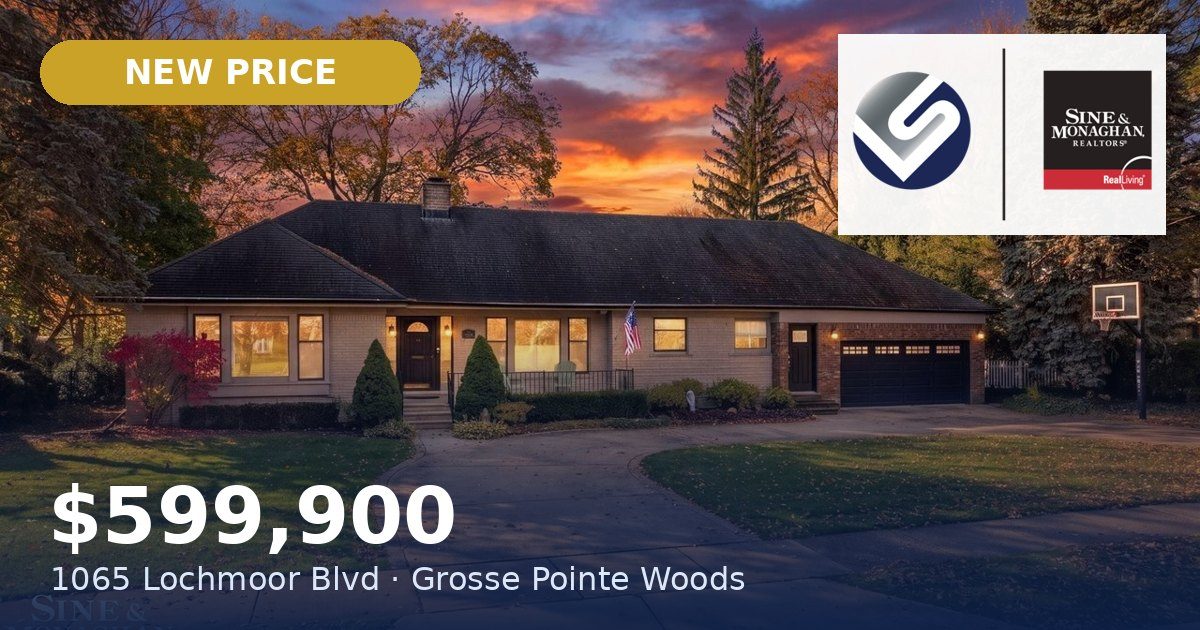
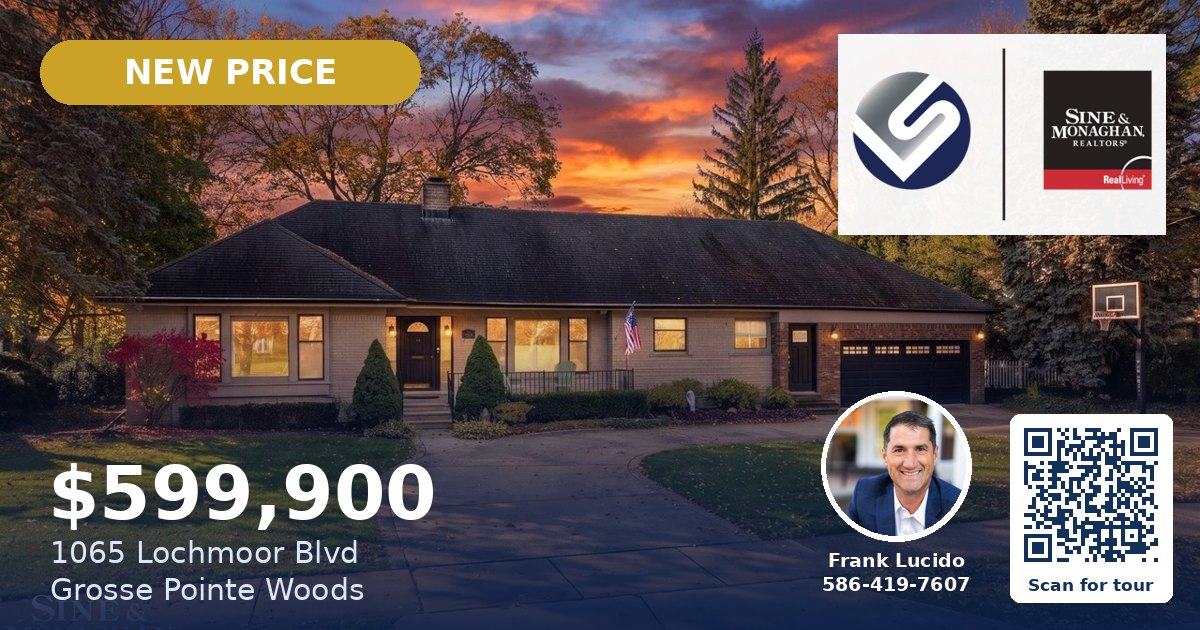
1065 Lochmoor: headshot + QR on post image, easy contact form to Follow Up Boss
Claude-Session: https://claude.ai/code/session_01MGWtxCkF52fLRkVzdnzZ1h

Changed region(s): [[0.6783, 0.6032, 0.9867, 0.9651], [0.0308, 0.7238, 0.6167, 0.9651]]

diff --git a/1065-lochmoor/index.html b/1065-lochmoor/index.html
@@ -64,13 +64,27 @@ ul.hl li:before{content:"";position:absolute;left:4px;top:15px;width:10px;height
 .agent a.tel{display:block;color:#fff;font-size:28px;font-weight:800;text-decoration:none;margin-top:4px}
 .legal{font-size:12px;color:#5b6b80;text-align:center;padding:4px 18px}
 .dock{position:fixed;left:0;right:0;bottom:0;background:#fff;box-shadow:0 -4px 16px rgba(0,0,0,.14);padding:10px 12px calc(10px + env(safe-area-inset-bottom));display:flex;gap:8px;z-index:9}
-.dock a,.dock button{flex:1;border:0;border-radius:999px;padding:13px 6px;font:700 16px/1 inherit;font-family:inherit;text-decoration:none;text-align:center;cursor:pointer}
+.dock a,.dock button{flex:1;border:0;border-radius:999px;padding:13px 6px;font:700 15px/1 inherit;font-family:inherit;text-decoration:none;text-align:center;cursor:pointer}
 .dock .c{background:#12305a;color:#fff}.dock .s{background:#1f6fd0;color:#fff}.dock .sh{background:#eef3fa;color:#12305a}
+
+.ask .f{margin-bottom:10px}.ask label,.ask .lab{display:block;font-weight:700;color:#12305a;margin-bottom:4px;font-size:15px}
+.ask input,.ask textarea{width:100%;font:inherit;font-size:17px;padding:12px;border:2px solid #c9d5e6;border-radius:10px}
+.ask textarea{min-height:80px}
+.ch{display:flex;flex-wrap:wrap;gap:8px}.ch button{font:inherit;font-size:15px;font-weight:600;border:2px solid #12305a;background:#fff;color:#12305a;border-radius:999px;padding:9px 14px;cursor:pointer}
+.ch button.on{background:#12305a;color:#fff}
+.ok{display:flex;gap:8px;align-items:flex-start;font-size:13px;color:#3b4d64;margin:6px 0 10px}.ok input{width:auto;margin-top:3px}
+.hp{position:absolute;left:-9999px;height:1px;width:1px}
+.err{color:#b3261e;font-weight:700;min-height:1px;margin-bottom:6px}
+.big{display:block;width:100%;border:0;border-radius:999px;padding:15px;font:800 18px/1 inherit;font-family:inherit;background:#1f6fd0;color:#fff;cursor:pointer;text-align:center;text-decoration:none;margin-top:8px}
+.big.line{background:#fff;color:#12305a;border:2px solid #12305a}
+.quick{display:grid;grid-template-columns:1fr 1fr 1fr;gap:8px;margin-bottom:12px}
+.quick a{text-align:center;text-decoration:none;font-weight:800;font-size:16px;border-radius:12px;padding:14px 4px;background:#12305a;color:#fff}
+.quick a small{display:block;font-weight:500;font-size:12px;color:#c8d6ee;margin-top:3px}
 #lb{position:fixed;inset:0;background:rgba(0,0,0,.9);display:none;align-items:center;justify-content:center;z-index:20}
 #lb img{max-width:96vw;max-height:92vh}
 @media (max-width:420px){.facts b{font-size:19px}.pricebox .p{font-size:34px}.agent img.ph{width:105px}}
 </style></head>
-<body>
+<body data-form="buyer-search">
 <div class="wrap">
 <header><img src="img/lucido-logo.png" alt="Lucido Homes"><b>Frank Lucido, REALTOR®<small>Sine &amp; Monaghan · Top 5% in Metro Detroit</small></b><img src="img/logo_c.png" alt="Lucido Homes · Sine &amp; Monaghan Realtors" style="height:44px;background:#fff;border-radius:6px;padding:3px"></header>
 
@@ -85,6 +99,39 @@ ul.hl li:before{content:"";position:absolute;left:4px;top:15px;width:10px;height
   <div><b>3.5</b><span>Baths</span></div>
   <div><b>2,400</b><span>Sq ft (approx.)</span></div>
   <div><b>2-car</b><span>Attached garage</span></div>
+</div>
+
+
+<div class="card ask" id="ask">
+  <h2>Questions? Reach me any way you like</h2>
+  <div class="quick">
+    <a href="tel:+15864197607">Call<small>586-419-7607</small></a>
+    <a href="sms:+15864197607?&body=Hi%20Frank%2C%20I%20have%20a%20question%20about%201065%20Lochmoor.">Text<small>Quick reply</small></a>
+    <a href="mailto:frankjr@fjlucido.com?subject=1065%20Lochmoor%20Blvd">Email<small>Send a note</small></a>
+  </div>
+  <div id="form">
+    <p style="margin:0 0 10px">Or send it here and I'll get right back to you.</p>
+    <div class="f" data-q="Home"><input type="hidden" value="1065 Lochmoor Blvd, Grosse Pointe Woods ($599,900)"></div>
+    <div class="f" data-q="I'd like to"><span class="lab">I'd like to</span><div class="ch" data-multi><button type="button">See it in person</button><button type="button">Ask a question</button><button type="button">Get homes like this</button><button type="button">Know my payment</button></div></div>
+    <div class="f" data-q="Question"><label for="q">Your question (optional)</label><textarea id="q" placeholder="Ask me anything about the home"></textarea></div>
+    <div class="f"><label for="name">Name</label><input id="name" autocomplete="name" autocapitalize="words"></div>
+    <div class="f"><label for="phone">Cell phone</label><input id="phone" type="tel" inputmode="tel" autocomplete="tel"></div>
+    <div class="f"><label for="email">Email</label><input id="email" type="email" inputmode="email" autocomplete="email" autocapitalize="none"></div>
+    <div class="f" data-q="Best way to reach you"><span class="lab">Best way to reach you</span><div class="ch"><button type="button">Call</button><button type="button">Text</button><button type="button">Email</button></div></div>
+    <label class="ok"><input id="consent" type="checkbox" checked> <span>It's OK for Frank Lucido to call, text and email me about homes. Reply STOP at any time to opt out.</span></label>
+    <input id="website" class="hp" tabindex="-1" autocomplete="off" aria-hidden="true">
+    <div class="err" id="err" role="alert"></div>
+    <button class="big" id="go" type="button">Send to Frank</button>
+  </div>
+  <div id="done" hidden>
+    <h2 id="ty">Thank you!</h2>
+    <p>Got it. I'll be in touch shortly. Frank, 586-419-7607</p>
+    <div id="fallback" hidden>
+      <p><b>One more tap:</b> it didn't send automatically, so it's ready as a text to me instead.</p>
+      <a class="big" id="sms" href="#">Open the text to Frank</a>
+      <a class="big line" id="mail" href="#">Email it instead</a>
+    </div>
+  </div>
 </div>
 
 <div class="card">
@@ -155,7 +202,8 @@ ul.hl li:before{content:"";position:absolute;left:4px;top:15px;width:10px;height
 
 <div class="dock">
   <a class="c" href="tel:+15864197607">Call Frank</a>
-  <a class="s" href="sms:+15864197607?&body=Hi%20Frank%2C%20I%27d%20like%20a%20private%20showing%20of%201065%20Lochmoor.">Book showing</a>
+  <a class="s" href="sms:+15864197607?&body=Hi%20Frank%2C%20I%27d%20like%20a%20private%20showing%20of%201065%20Lochmoor.">Text Frank</a>
+  <a class="sh" href="#ask">Ask Frank</a>
   <button class="sh" id="share">Share</button>
 </div>
 <div id="lb"><img alt=""></div>
@@ -164,4 +212,5 @@ document.getElementById('share').onclick=function(){var u='https://franklucidoho
  if(navigator.share){navigator.share(d).catch(function(){})}else{try{navigator.clipboard.writeText(u);alert('Link copied')}catch(e){prompt('Copy this link',u)}}};
 var lb=document.getElementById('lb');document.querySelectorAll('.gal img,.plans img').forEach(function(i){i.onclick=function(){lb.querySelector('img').src=i.src;lb.style.display='flex'}});lb.onclick=function(){lb.style.display='none'};
 </script>
+<script src="../signin.js"></script>
 </body></html>
